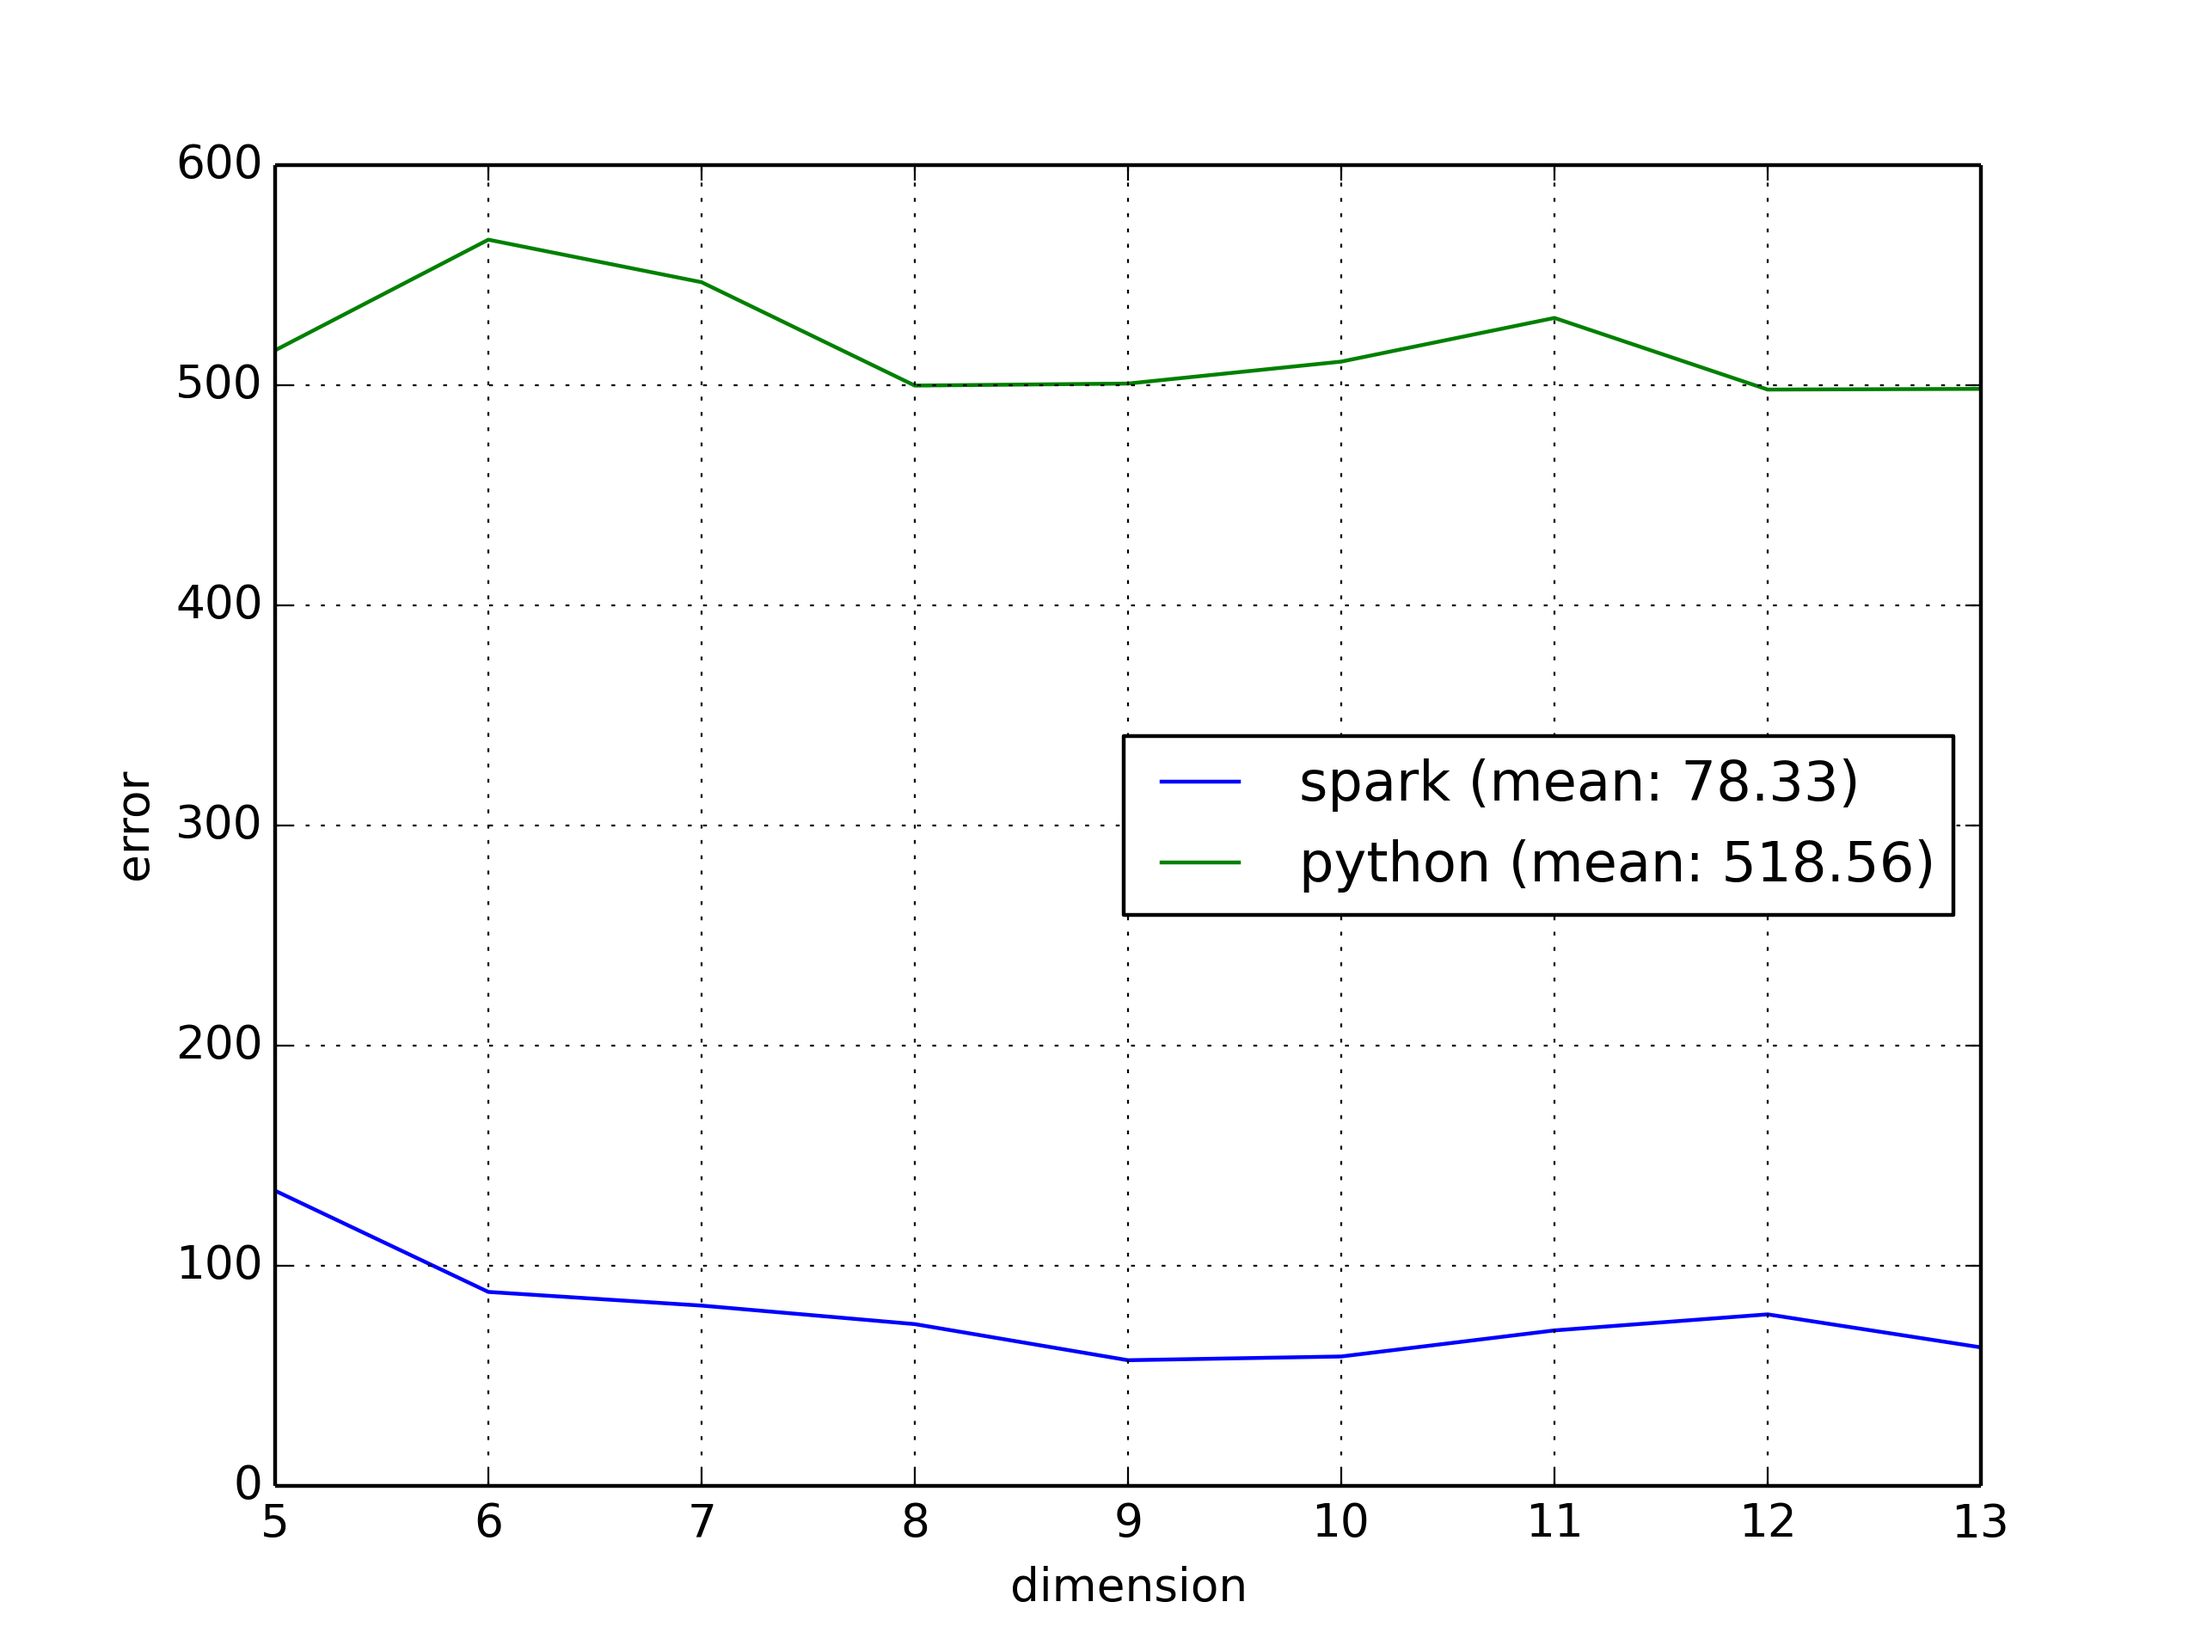
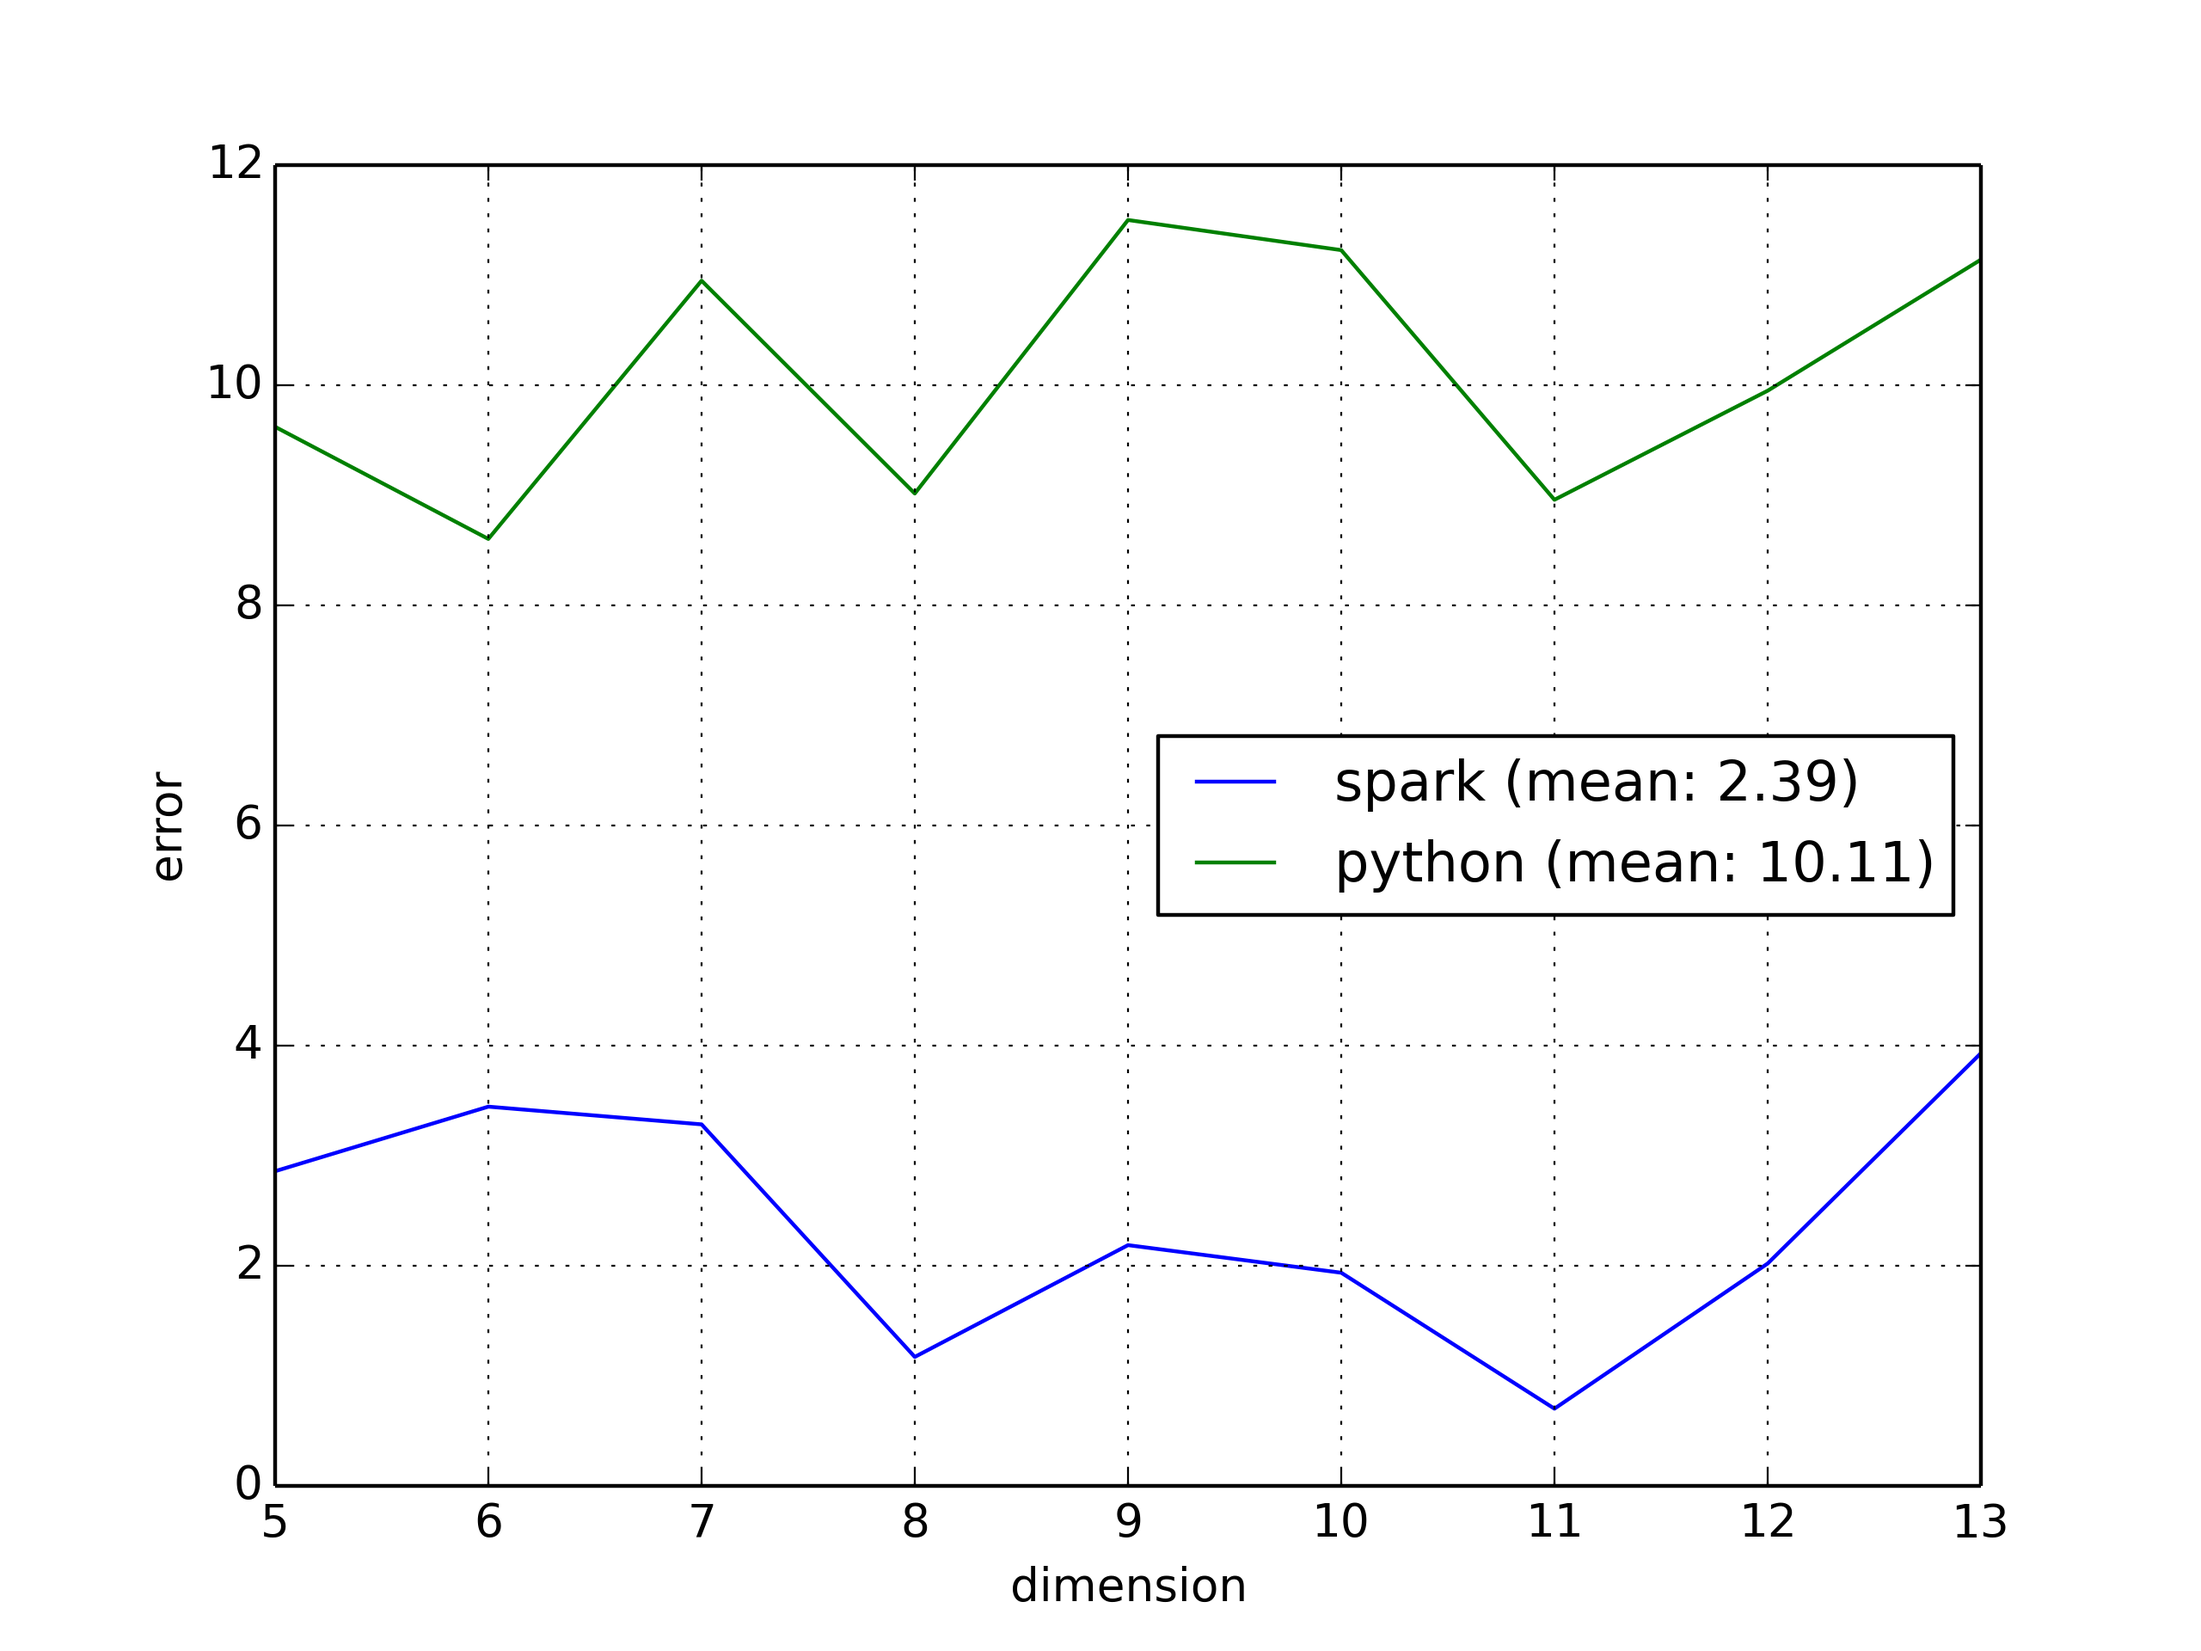
ensure results are comparable with spark

diff --git a/random-projection/error_distances_python.py b/random-projection/error_distances_python.py
@@ -19,12 +19,12 @@ rows = []
 cols = []
 values = []
 matrix_size = 100
-rng = range(0, matrix_size-1)
-for x in rng:
+rng = range(0, matrix_size)
+for x in range(0, matrix_size-1):
     for y in rng:
         rows.append(x)
         cols.append(y)
-        values.append(float(x+1))
+        values.append(np.float64(x+1))
 
 matrix = csr_matrix( (values,(rows,cols))).todense()
 
@@ -35,6 +35,7 @@ orig_dimension = np.shape(matrix)[1]
 print("dataset rows: %s" % np.shape(matrix)[0])
 print("dataset columns: %s" % orig_dimension)
 
+# claculate the euclidean distance
 def euclideanDist(a,b):
     sum = 0.0
     for item in zip(a,b):
@@ -61,40 +62,34 @@ def evaluatePairwiseDistances(dataset, intrinsicDimension):
     rand_matrix = scikit_rp.getSparseRP(intrinsicDimension)._make_random_matrix(intrinsicDimension, orig_dimension)
     # perform the reduction
     reduced_matrix = dataset * rand_matrix.transpose()
-
     amount_orig, dist = getPairwiseDist(matrix)
-
     # call method from above
     amount_reduced, reduced_dist = getPairwiseDist(reduced_matrix)
-
-    sumOrig = 0.0
-    sumReduced = 0.0
-    sumError = 0.0
+    sumOrig = []
+    sumReduced = []
+    sumError = []
     keysOrig = dist.iterkeys()
     keysReduced = reduced_dist.iterkeys()
     for keyz in zip(keysOrig, keysReduced):
         orig = keyz[0]
         reduced = keyz[1]
-
         orig_dist_value = dist[orig]
         reduced_dist_value = reduced_dist[reduced]
-
         if orig_dist_value > reduced_dist_value:
             error = orig_dist_value - reduced_dist_value
         else:
             error = reduced_dist_value - orig_dist_value
-
         if orig != reduced:
             raise "error. '%s' must be equal to '%s'" % (orig, reduced)
+        # print "#%s orig dist: %s" % (orig, orig_dist_value)
+        sumOrig.append(orig_dist_value)
+        sumReduced.append(reduced_dist_value)
+        sumError.append(error)
 
-        sumOrig = sumOrig + orig_dist_value
-        sumReduced = sumReduced + reduced_dist_value
-        sumError = sumError + error
-
-    return (sumOrig, sumReduced, sumError)
+    return (np.mean(sumOrig), np.mean(sumReduced), np.mean(sumError))
 
 avg_error = 0.0
-folds = range(0, 30)
+folds = range(0, 5)
 x = []
 y_orig = []
 y_reduced = []
@@ -111,6 +106,7 @@ for dimension in np.arange(5, 16, 1):
         orig_sum.append(orig)
         reduced_sum.append(reduced)
         # print error_sum
+
     y_orig.append(np.mean(orig_sum))
     y_reduced.append(np.mean(reduced_sum))
     y_error.append(np.mean(error_sum))
